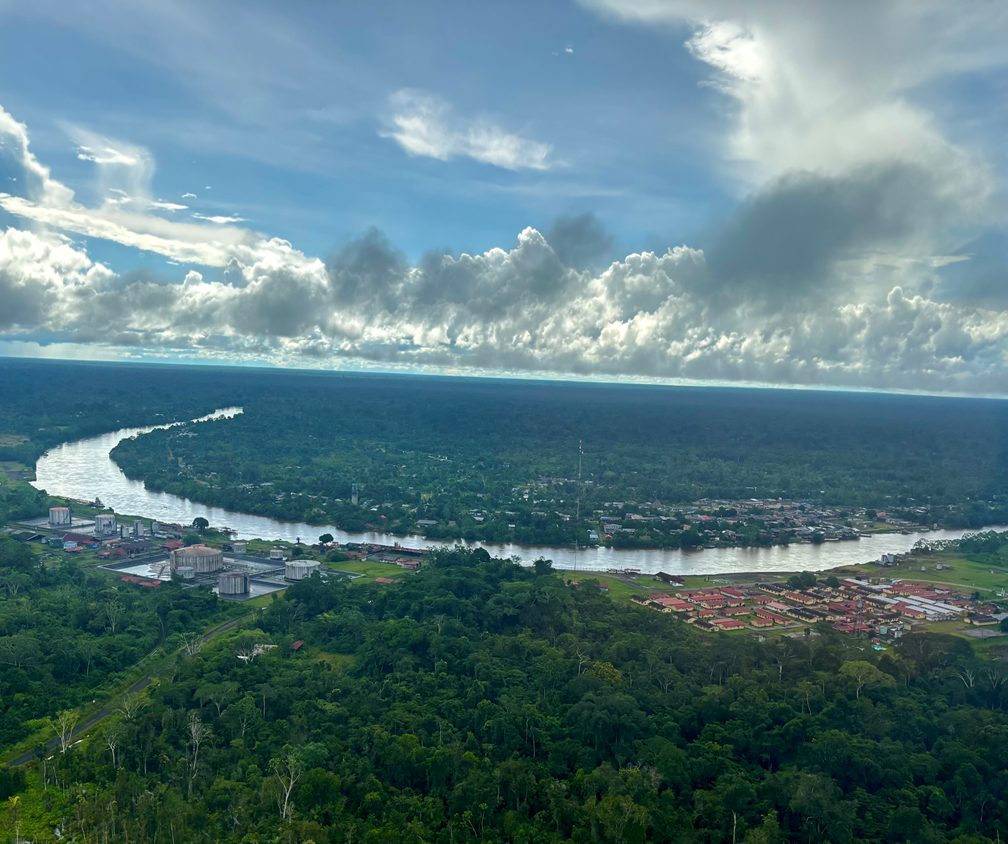
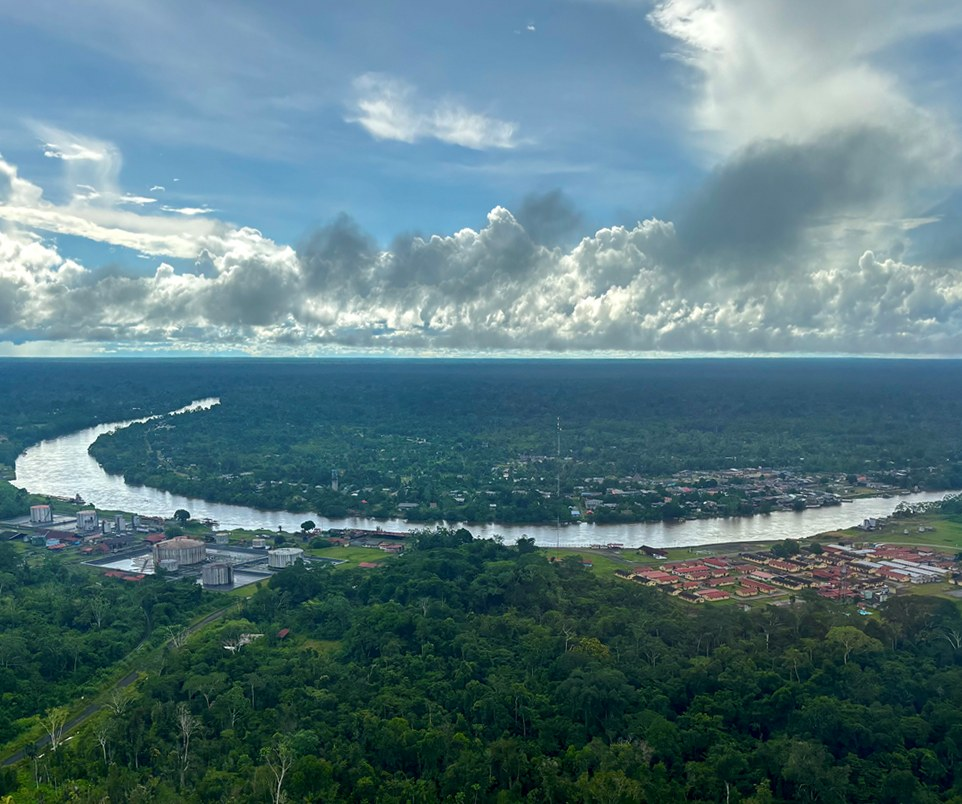
Block 8 production 5,500 bopd (October 2026); level the Corrientes aerial photo
- Key facts and Block 8 card, English and Spanish pages
- Hero photo rotated 2.3 degrees so the horizon is level, cropped to remove the corners

Claude-Session: https://claude.ai/code/session_018pgaVeTPnQvwqBU5T29PdK

diff --git a/website/es/index.html b/website/es/index.html
@@ -218,7 +218,7 @@ footer a{color:#DCE2EA}
 </div>
 </div>
 <figure class="hero-photo">
-<img src="../img/amazon-aerial.jpg" width="1008" height="844" alt="Vista aérea del campamento del yacimiento Corrientes, en el complejo del Lote 8, Amazonía peruana">
+<img src="../img/amazon-aerial.jpg" width="962" height="804" alt="Vista aérea del campamento del yacimiento Corrientes, en el complejo del Lote 8, Amazonía peruana">
 <figcaption>Campamento del yacimiento Corrientes, en el centro del complejo del Lote 8</figcaption>
 </figure>
 </section>
@@ -226,7 +226,7 @@ footer a{color:#DCE2EA}
 <section class="facts" aria-label="Datos clave">
 <div class="wrap">
 <div class="fact"><b>5</b><span>activos en Perú y el Reino Unido</span></div>
-<div class="fact"><b>4,900 <small>bpd</small></b><span>producción del Lote 8, agosto de 2026</span></div>
+<div class="fact"><b>5,500 <small>bpd</small></b><span>producción del Lote 8, octubre de 2026</span></div>
 <div class="fact"><b>20+ <small>años</small></b><span>de experiencia directiva en Shell y Perenco</span></div>
 <div class="fact"><b>ISO</b><span>certificación 9001 · 14001 · 45001</span></div>
 </div>
@@ -270,7 +270,7 @@ footer a{color:#DCE2EA}
 </table>
 </div>
 <div class="cards4">
-<article class="asset wide"><a class="map-link" href="../maps/es/block8.svg" target="_blank" rel="noopener" aria-label="Abrir el mapa del Lote 8 en tamaño completo"><img class="map" src="../maps/es/block8.svg" width="560" height="420" alt="Mapa del Lote 8 en Loreto, Perú, con sus áreas de yacimientos, el río Marañón y el Oleoducto Norperuano"></a><div class="asset-body"><p class="meta">PERÚ · 30% · EN PRODUCCIÓN</p><h3>Lote 8</h3><p>Un contrato de servicios técnicos en la Amazonía, adjudicado mediante un proceso competitivo. Fue un desarrollo emblemático del Estado en la década de 1970 y hoy está siendo reactivado por el operador Upland Oil &amp; Gas, que viene poniendo pozos nuevamente en producción desde fines de 2024. Produce alrededor de 4,900 barriles de petróleo por día (agosto de 2026), que se venden a la refinería de PetroPerú en Iquitos y a ATEM en Manaos. Nuevas instalaciones satélite acercan la meta de 6,000 barriles por día.</p></div></article>
+<article class="asset wide"><a class="map-link" href="../maps/es/block8.svg" target="_blank" rel="noopener" aria-label="Abrir el mapa del Lote 8 en tamaño completo"><img class="map" src="../maps/es/block8.svg" width="560" height="420" alt="Mapa del Lote 8 en Loreto, Perú, con sus áreas de yacimientos, el río Marañón y el Oleoducto Norperuano"></a><div class="asset-body"><p class="meta">PERÚ · 30% · EN PRODUCCIÓN</p><h3>Lote 8</h3><p>Un contrato de servicios técnicos en la Amazonía, adjudicado mediante un proceso competitivo. Fue un desarrollo emblemático del Estado en la década de 1970 y hoy está siendo reactivado por el operador Upland Oil &amp; Gas, que viene poniendo pozos nuevamente en producción desde fines de 2024. Produce alrededor de 5,500 barriles de petróleo por día (octubre de 2026), que se venden a la refinería de PetroPerú en Iquitos y a ATEM en Manaos. Nuevas instalaciones satélite acercan la meta de 6,000 barriles por día.</p></div></article>
 <article class="asset"><a class="map-link" href="../maps/es/blockxxiii.svg" target="_blank" rel="noopener" aria-label="Abrir el mapa del Lote XXIII en tamaño completo"><img class="map" src="../maps/es/blockxxiii.svg" width="560" height="420" alt="Mapa del Lote XXIII en la costa de Tumbes, Perú"></a><div class="asset-body"><p class="meta">PERÚ · 30% · EVALUACIÓN Y DESARROLLO</p><h3>Lote XXIII</h3><p>Un lote costero en tierra, a unos 10 km de la Carretera Panamericana, operado por Upland Oil &amp; Gas. Sus yacimientos de gas convencional están probados por varios pozos y pruebas de flujo, y Piedra Candela se está desarrollando para suministrar gas natural comprimido (GNC). La depresión de Cardalitos aporta potencial de gas no convencional.</p></div></article>
 <article class="asset"><a class="map-link" href="../maps/es/blockxcix.svg" target="_blank" rel="noopener" aria-label="Abrir el mapa del Lote XCIX en tamaño completo"><img class="map" src="../maps/es/blockxcix.svg" width="560" height="420" alt="Mapa del área de evaluación técnica del Lote XCIX en Ucayali, Perú, cerca de la frontera con Brasil, con el descubrimiento Sheshea"></a><div class="asset-body"><p class="meta">PERÚ · 100% · EVALUACIÓN TÉCNICA</p><h3>Lote XCIX</h3><p>Un área bajo Convenio de Evaluación Técnica, con 100% de participación de Tetra Energies, en la cuenca Ucayali de la Amazonía peruana, cerca de la frontera con Brasil. Contiene el descubrimiento Sheshea, aún no desarrollado, con potencial exploratorio adicional. El programa de trabajo actual es una evaluación del subsuelo del área: revisión de todos los datos de pozos existentes, reprocesamiento de la sísmica 3D disponible y elaboración de una evaluación de la prospectividad.</p></div></article>
 <article class="asset"><a class="map-link" href="../maps/es/pedl070.svg" target="_blank" rel="noopener" aria-label="Abrir el mapa de PEDL070 en tamaño completo"><img class="map" src="../maps/es/pedl070.svg" width="560" height="420" alt="Mapa de la licencia PEDL070, subárea SU52a, y del yacimiento petrolero Avington, cerca de Winchester, Hampshire"></a><div class="asset-body"><p class="meta">REINO UNIDO · 5% · CERRADO</p><h3>Yacimiento Avington, PEDL070</h3><p>Un yacimiento de petróleo cerca de Winchester, en la cuenca continental de Wessex, dentro de la subárea SU52a, operado por Star Energy. El yacimiento está cerrado y programado para su abandono.</p></div></article>

diff --git a/website/index.html b/website/index.html
@@ -218,7 +218,7 @@ footer a{color:#DCE2EA}
 </div>
 </div>
 <figure class="hero-photo">
-<img src="img/amazon-aerial.jpg" width="1008" height="844" alt="Aerial view of the Corrientes field camp in the Block 8 complex, Peruvian Amazon">
+<img src="img/amazon-aerial.jpg" width="962" height="804" alt="Aerial view of the Corrientes field camp in the Block 8 complex, Peruvian Amazon">
 <figcaption>Corrientes field camp, at the centre of the Block 8 complex</figcaption>
 </figure>
 </section>
@@ -226,7 +226,7 @@ footer a{color:#DCE2EA}
 <section class="facts" aria-label="Key facts">
 <div class="wrap">
 <div class="fact"><b>5</b><span>assets across Peru and the UK</span></div>
-<div class="fact"><b>4,900 <small>bopd</small></b><span>Block 8 production, August 2026</span></div>
+<div class="fact"><b>5,500 <small>bopd</small></b><span>Block 8 production, October 2026</span></div>
 <div class="fact"><b>20+ <small>years</small></b><span>leadership experience at Shell and Perenco</span></div>
 <div class="fact"><b>ISO</b><span>9001 · 14001 · 45001 certified</span></div>
 </div>
@@ -270,7 +270,7 @@ footer a{color:#DCE2EA}
 </table>
 </div>
 <div class="cards4">
-<article class="asset wide"><a class="map-link" href="maps/block8.svg" target="_blank" rel="noopener" aria-label="Open the Block 8 map full size"><img class="map" src="maps/block8.svg" width="560" height="420" alt="Map of Block 8 in Loreto, Peru, showing its field areas, the Marañón river and the North Peruvian Pipeline"></a><div class="asset-body"><p class="meta">PERU · 30% · PRODUCING</p><h3>Block 8</h3><p>A technical service contract in the Amazon, won through a competitive bid. Once a flagship state development in the 1970s, the block is being restarted by operator Upland Oil &amp; Gas, bringing wells back online since late 2024. It produces about 4,900 barrels of oil per day (August 2026), sold to the PetroPeru refinery in Iquitos and ATEM in Manaus. Further satellite facilities put the 6,000 barrel per day target within sight.</p></div></article>
+<article class="asset wide"><a class="map-link" href="maps/block8.svg" target="_blank" rel="noopener" aria-label="Open the Block 8 map full size"><img class="map" src="maps/block8.svg" width="560" height="420" alt="Map of Block 8 in Loreto, Peru, showing its field areas, the Marañón river and the North Peruvian Pipeline"></a><div class="asset-body"><p class="meta">PERU · 30% · PRODUCING</p><h3>Block 8</h3><p>A technical service contract in the Amazon, won through a competitive bid. Once a flagship state development in the 1970s, the block is being restarted by operator Upland Oil &amp; Gas, bringing wells back online since late 2024. It produces about 5,500 barrels of oil per day (October 2026), sold to the PetroPeru refinery in Iquitos and ATEM in Manaus. Further satellite facilities put the 6,000 barrel per day target within sight.</p></div></article>
 <article class="asset"><a class="map-link" href="maps/blockxxiii.svg" target="_blank" rel="noopener" aria-label="Open the Block XXIII map full size"><img class="map" src="maps/blockxxiii.svg" width="560" height="420" alt="Map of Block XXIII on the coast of Tumbes, Peru"></a><div class="asset-body"><p class="meta">PERU · 30% · APPRAISAL AND DEVELOPMENT</p><h3>Block XXIII</h3><p>An onshore coastal block within about 10 km of the Pan-American Highway, operated by Upland Oil &amp; Gas. Its conventional gas fields are proven by multiple wells and flow tests, and Piedra Candela is being developed to supply compressed natural gas. The Cardalitos trough adds unconventional gas potential.</p></div></article>
 <article class="asset"><a class="map-link" href="maps/blockxcix.svg" target="_blank" rel="noopener" aria-label="Open the Block XCIX map full size"><img class="map" src="maps/blockxcix.svg" width="560" height="420" alt="Map of the Block XCIX technical evaluation area in Ucayali, Peru, near the Brazilian border, showing the Sheshea discovery"></a><div class="asset-body"><p class="meta">PERU · 100% · TECHNICAL EVALUATION</p><h3>Block XCIX</h3><p>A technical evaluation area held 100% by Tetra Energies in the Ucayali basin of the Peruvian Amazon, near the Brazilian border. It contains the undeveloped Sheshea discovery, with further exploration upside. The current work programme is a subsurface evaluation of the area: reviewing all existing well data, reprocessing the available 3D seismic and assembling a prospectivity review.</p></div></article>
 <article class="asset"><a class="map-link" href="maps/pedl070.svg" target="_blank" rel="noopener" aria-label="Open the PEDL070 map full size"><img class="map" src="maps/pedl070.svg" width="560" height="420" alt="Map of licence PEDL070 subarea SU52a and the Avington oil field near Winchester, Hampshire"></a><div class="asset-body"><p class="meta">UK · 5% · SHUT-IN</p><h3>Avington field, PEDL070</h3><p>An oil field near Winchester in the onshore Wessex basin, in subarea SU52a, operated by Star Energy. The field is shut-in and scheduled for abandonment.</p></div></article>
